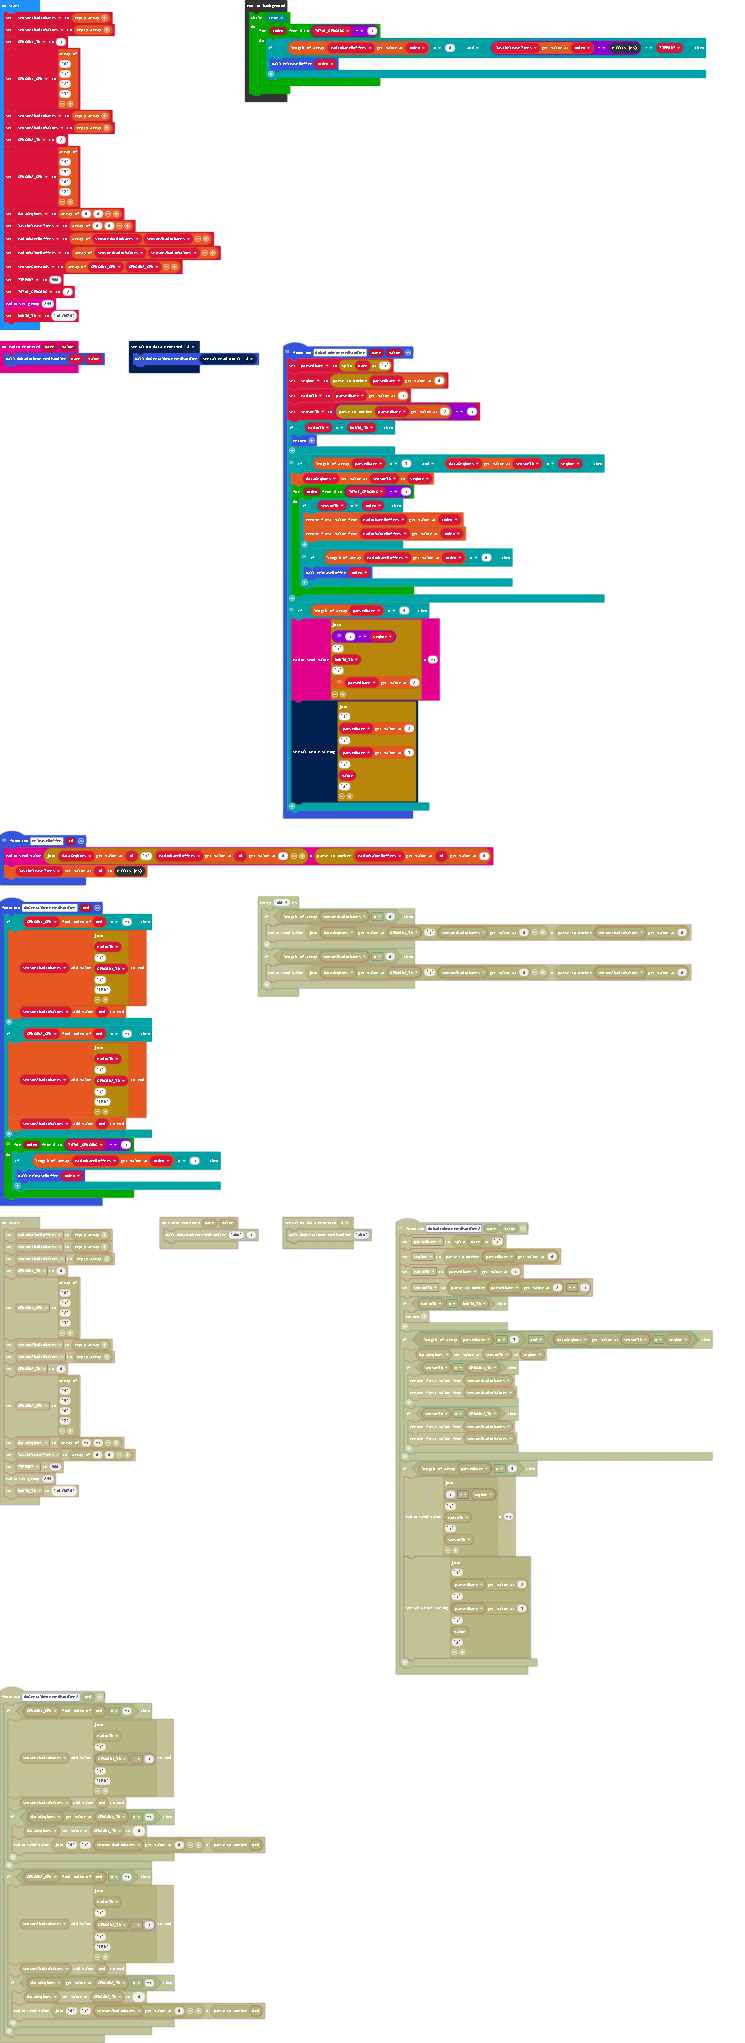
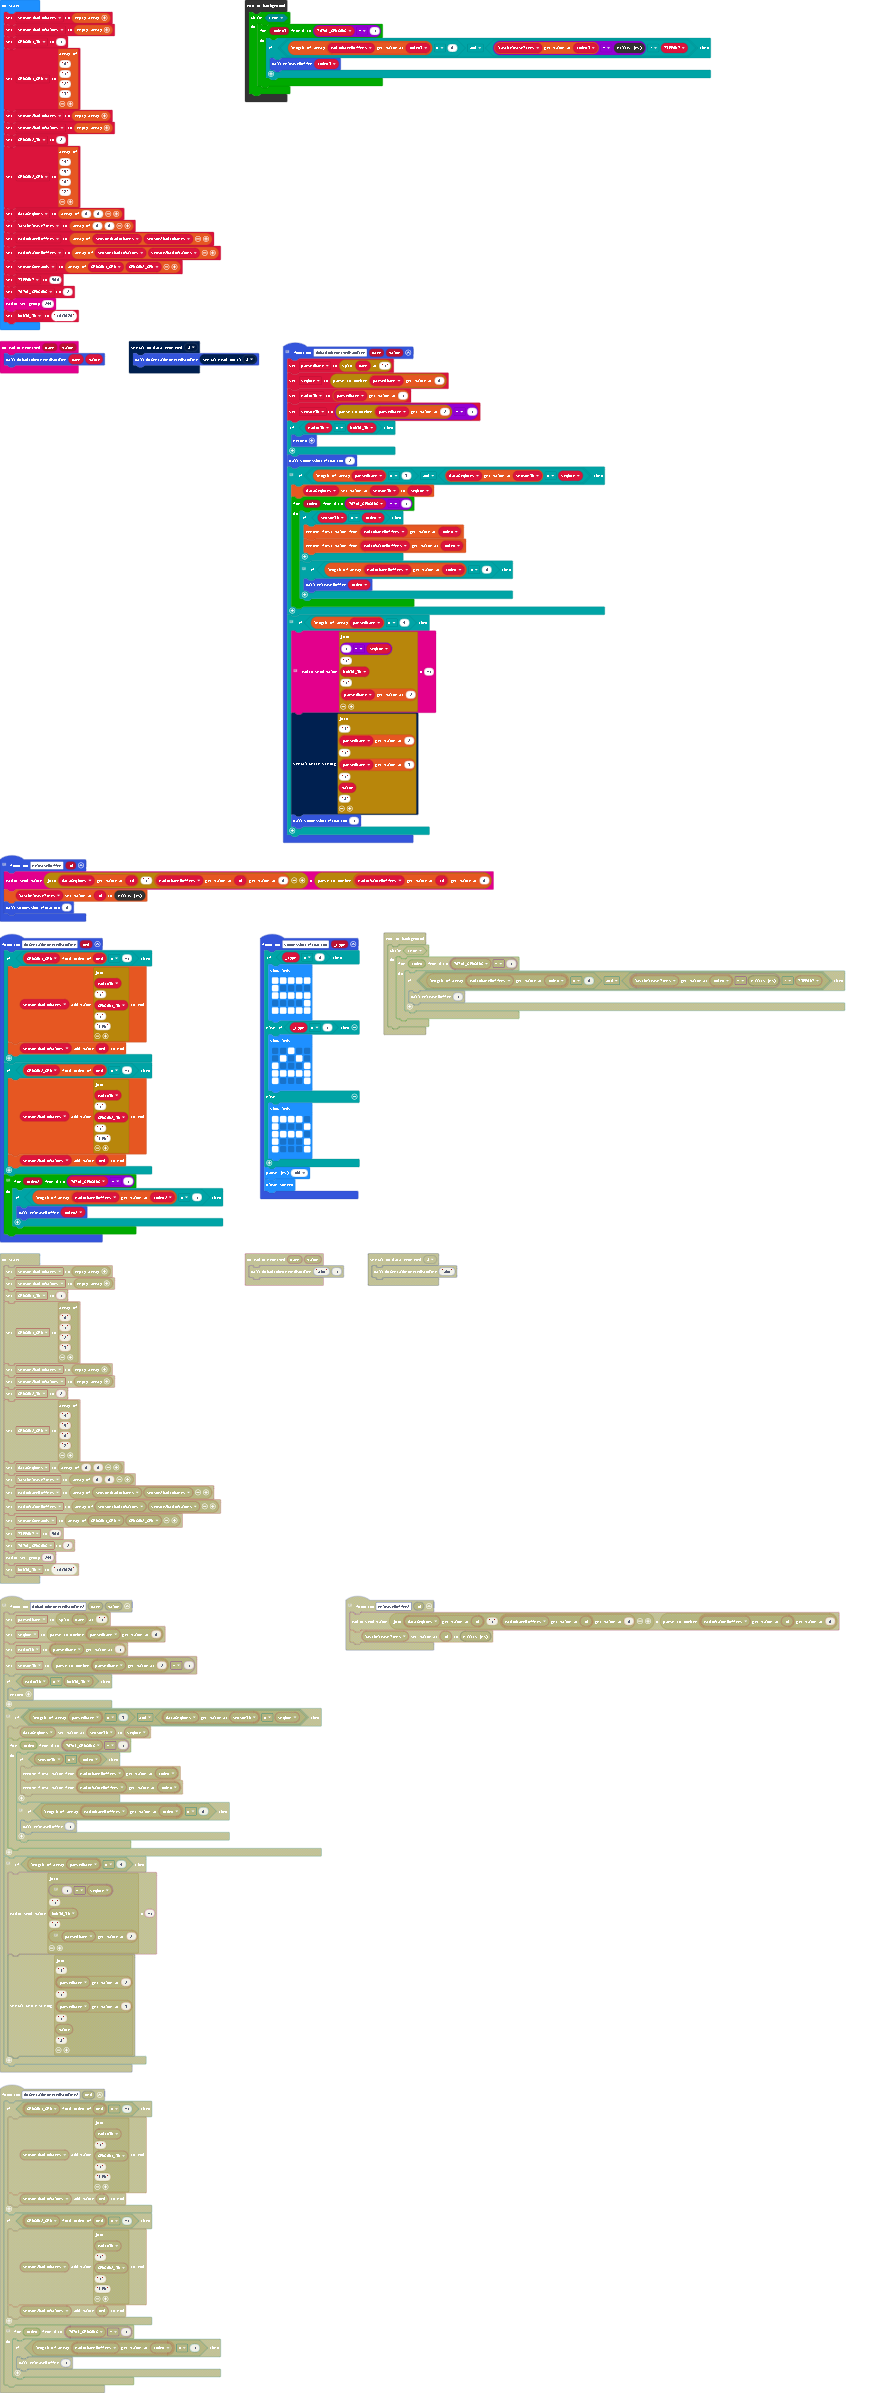
add debug function

diff --git a/main.ts b/main.ts
@@ -8,6 +8,7 @@ function OnRadioReceivedHandler (name: string, value: number) {
     if (radioID != RADIO_ID) {
         return
     }
+    successNotification(2)
     // ACK
     if (parsedName.length == 3 && dataSeqNums[sensorID] != seqNum) {
         dataSeqNums[sensorID] = seqNum
@@ -28,12 +29,14 @@ function OnRadioReceivedHandler (name: string, value: number) {
         // SENSOR_ID
         radio.sendValue("" + (1 - seqNum) + ":" + RADIO_ID + ":" + parsedName[2], -1)
         serial.writeString("!" + parsedName[2] + ":" + parsedName[3] + ":" + value + "#")
+        successNotification(1)
     }
 }
 // release first frame in buffer
 function releaseBuffer (id: number) {
     radio.sendValue("" + dataSeqNums[id] + ":" + radioNameBuffers[id][0], parseFloat(radioValueBuffers[id][0]))
     lastReleaseTimes[id] = control.millis()
+    successNotification(0)
 }
 function OnSerialReceivedHandler (cmd: string) {
     if (SENSOR1_CMD.indexOf(cmd) != -1) {
@@ -45,11 +48,40 @@ function OnSerialReceivedHandler (cmd: string) {
         sensor2RadioValues.push(cmd)
     }
     // releasing immediately if buffer is empty
-    for (let index = 0; index <= TOTAL_SENSORS - 1; index++) {
-        if (radioNameBuffers[index].length == 1) {
-            releaseBuffer(index)
+    for (let index2 = 0; index2 <= TOTAL_SENSORS - 1; index2++) {
+        if (radioNameBuffers[index2].length == 1) {
+            releaseBuffer(index2)
         }
     }
+}
+function successNotification (_type: number) {
+    if (_type == 0) {
+        basic.showLeds(`
+            # # # # #
+            # . . . .
+            # # # # #
+            . . . . #
+            # # # # #
+            `)
+    } else if (_type == 1) {
+        basic.showLeds(`
+            . . # . .
+            . # . # .
+            # . . . #
+            # # # # #
+            # . . . #
+            `)
+    } else {
+        basic.showLeds(`
+            # # # # .
+            # . . . #
+            # # # # .
+            # . . . #
+            # . . . #
+            `)
+    }
+    basic.pause(100)
+    basic.clearScreen()
 }
 serial.onDataReceived(serial.delimiters(Delimiters.Hash), function () {
     OnSerialReceivedHandler(serial.readUntil(serial.delimiters(Delimiters.Hash)))
@@ -104,9 +136,9 @@ radio.setGroup(244)
 RADIO_ID = "1813678"
 control.inBackground(function () {
     while (true) {
-        for (let index = 0; index <= TOTAL_SENSORS - 1; index++) {
-            if (radioNameBuffers[index].length != 0 && lastReleaseTimes[index] - control.millis() >= TIMEOUT) {
-                releaseBuffer(index)
+        for (let index3 = 0; index3 <= TOTAL_SENSORS - 1; index3++) {
+            if (radioNameBuffers[index3].length != 0 && lastReleaseTimes[index3] - control.millis() >= TIMEOUT) {
+                releaseBuffer(index3)
             }
         }
     }
